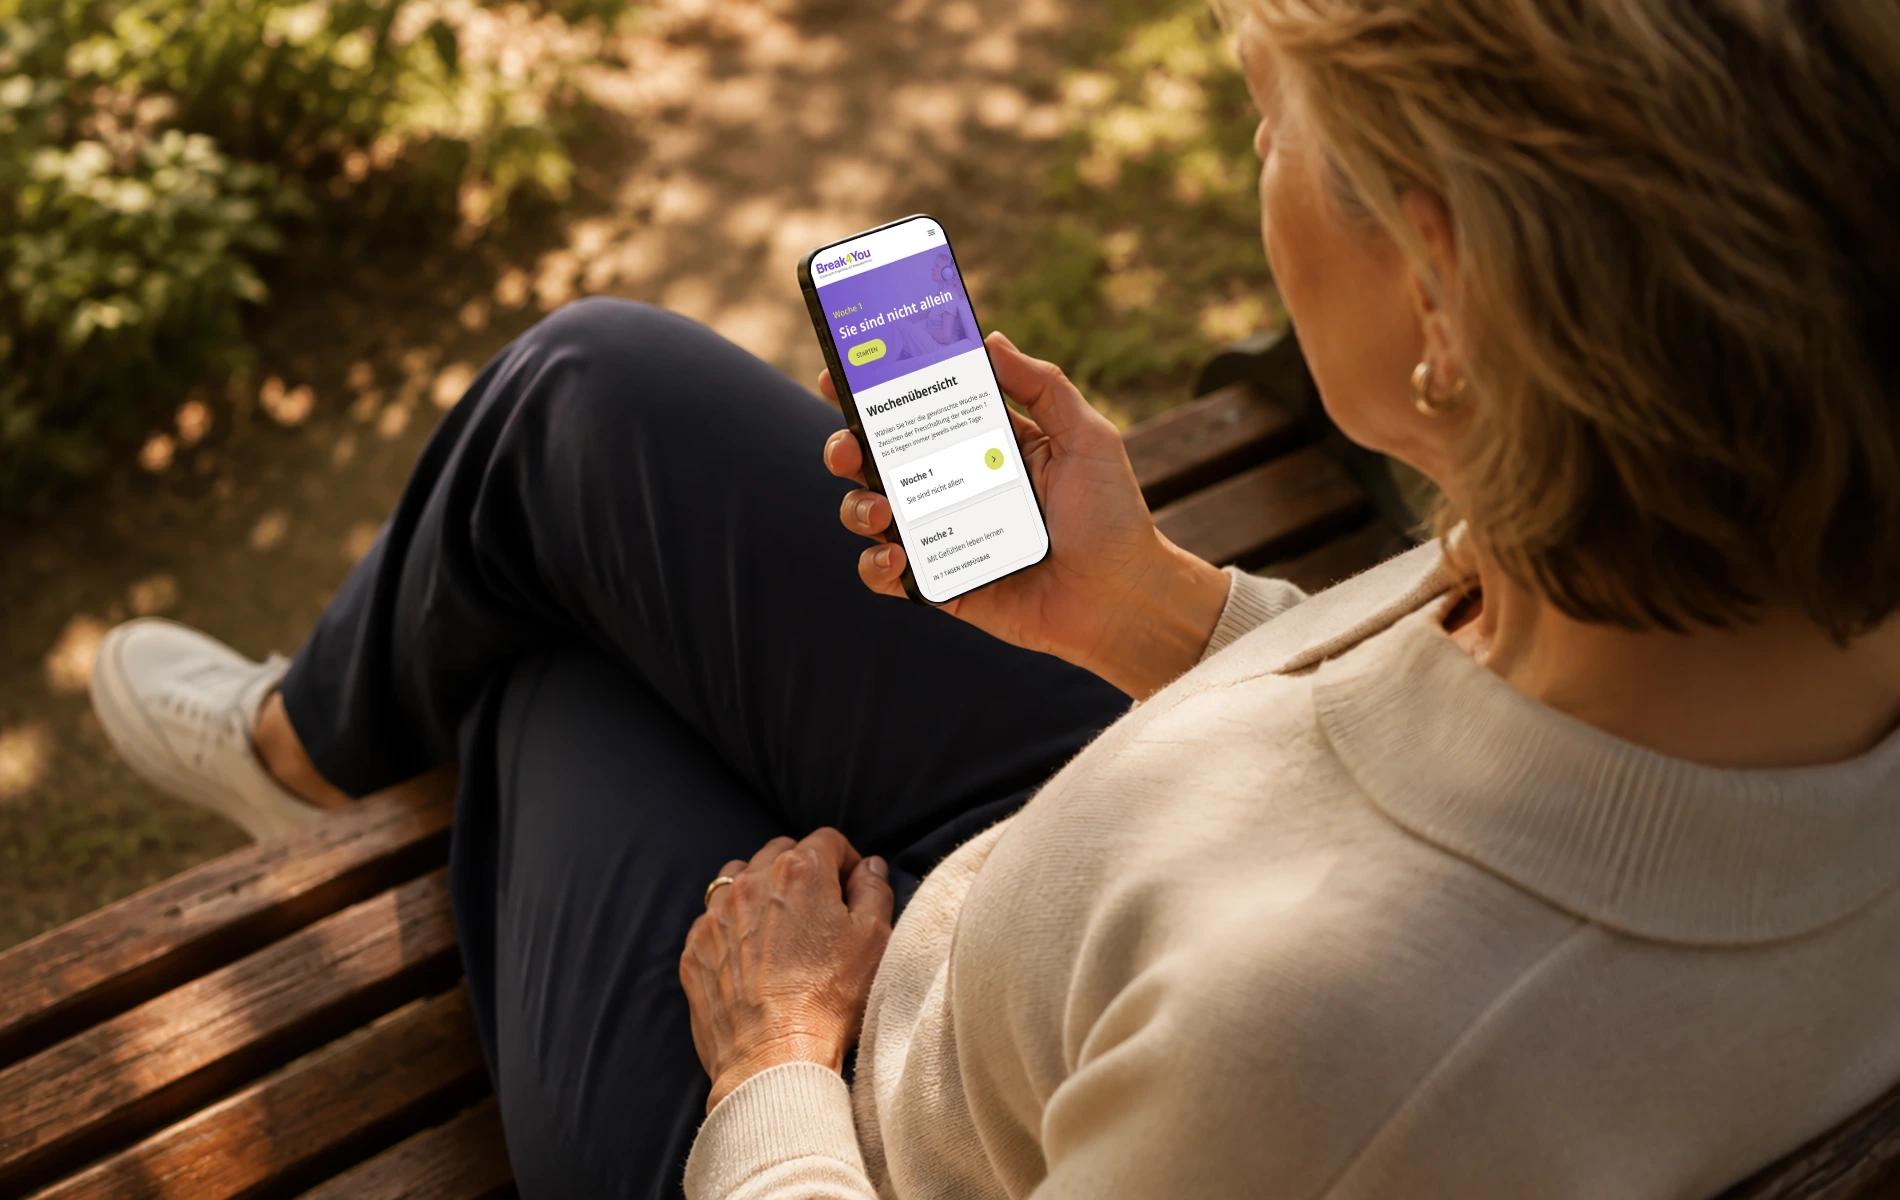
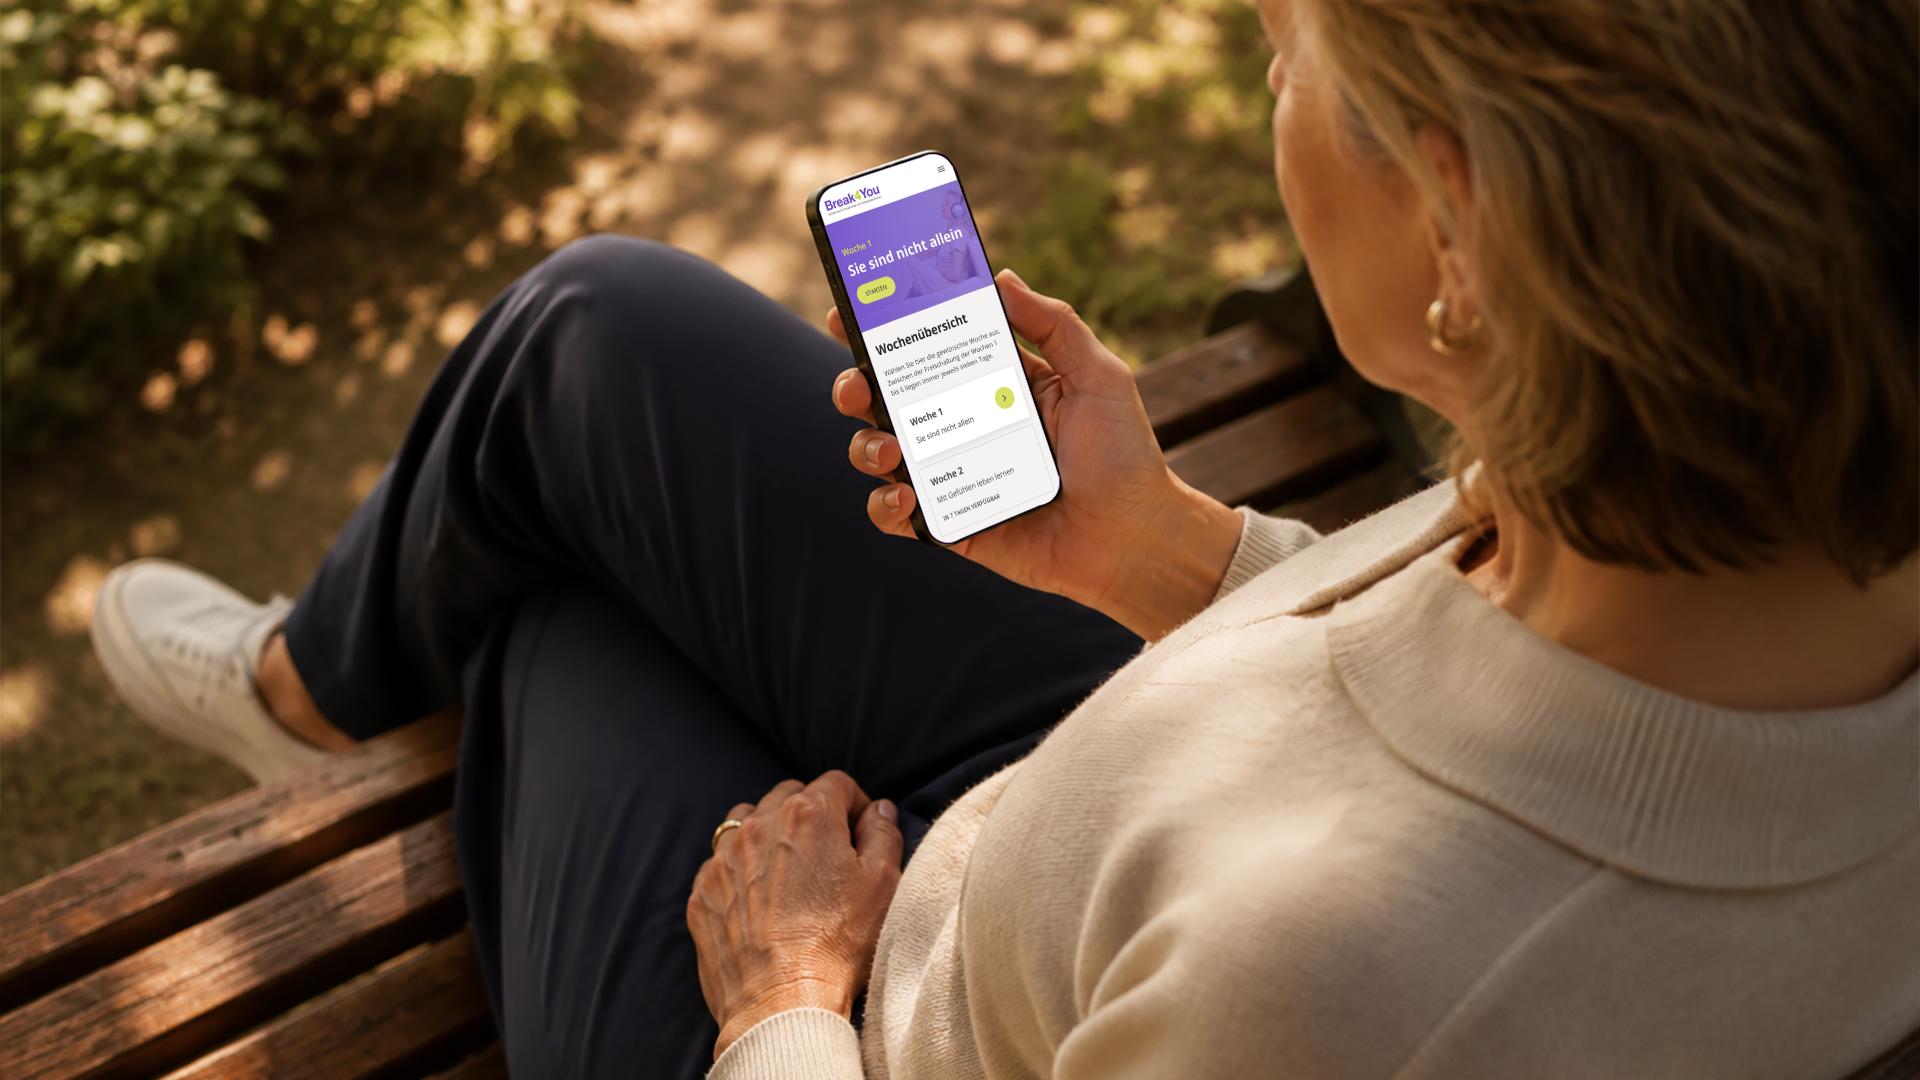
Update Break4You and Lebenswege case studies
Revise case-study markup and copy; add/replace Break4You and Lebenswege
media assets.

diff --git a/case-study-break4you.html b/case-study-break4you.html
@@ -68,95 +68,78 @@
     <div class="cs-media"><img src="assets/b4y/case-break4you-hero.webp" alt="Case Study Hugo Boss Hero"/></div>
 
         <div class="cs-text-row">
-      <span class="cs-text-row__label">About / Me</span>
+      <span class="cs-text-row__label">The challenge</span>
       <div class="cs-text-row__body">
 
         <div class="cs-project-meta">
           <div class="cs-project-meta__row">
             <div class="cs-project-meta__label">Client</div>
-            <div class="cs-project-meta__value">Beiersdorf AG</div>
+            <div class="cs-project-meta__value">Austrian Pancreatic Cancer Support Group & selpers</div>
           </div>
 
           <div class="cs-project-meta__row">
             <div class="cs-project-meta__label">Year</div>
-            <div class="cs-project-meta__value">2023–2025</div>
+            <div class="cs-project-meta__value">2020</div>
           </div>
 
           <div class="cs-project-meta__row">
             <div class="cs-project-meta__label">Role</div>
-            <div class="cs-project-meta__value">Art Direction / Design Lead</div>
+            <div class="cs-project-meta__value">Lead Designer</div>
           </div>
 
           <div class="cs-project-meta__row">
             <div class="cs-project-meta__label">Scope of work</div>
             <div class="cs-project-meta__value">
-              Art Direction / UI Design / Editorial Design / Motion Design
+              Concept Branding UI/UX Print Design Frontend-Development
             </div>
           </div>
         </div>
 
-        <p>Welcome. I'm Martina Schubhart, a digital &amp; editorial designer based in Vienna, Austria with over 15 years of experience. I strive to combine tangible business solutions with stunning design work to create memorable brands and 360 campaigns that get real results.</p>
-        <p>Welcome. I'm Martina Schubhart, a digital &amp; editorial designer based in Vienna, Austria with over 15 years of experience. I strive to combine tangible business solutions with stunning design work to create memorable brands and 360 campaigns that get real results.</p>
-        <p>Welcome. I'm Martina Schubhart, a digital &amp; editorial designer based in Vienna, Austria with over 15 years of experience. I strive to combine tangible business solutions with stunning design work to create memorable brands and 360 campaigns that get real results.</p>
+        <p>Break4You is a free online coach for people caring for a relative with advanced cancer — a group under enormous emotional and physical strain who 
+          rarely take time for themselves. Developed as a collaboration between the Austrian Pancreatic Cancer Support Group and selpers, the platform needed 
+          to provide practical support while feeling approachable, reassuring and easy to use.</p>
+          <p>As Lead Designer, I was responsible for shaping the product from the first concept through to launch, 
+            combining branding, UX/UI design and visual communication into one cohesive experience.</p>
       </div>
     </div>
 
-    <div class="cs-media"><img src="assets/bdf/case-Beiersdorf-screens.jpg" alt="Case Study Hugo Boss PDF Coverdesigns" /></div>
-    <div class="cs-media"><img src="assets/bdf/beiersdorf-case-03.webp" alt="Case Study Hugo Boss PDF Coverdesigns" /></div>
-
-    
-
-    <div class="cs-media" data-media="video">
-      <video poster="assets/hb/case-HugoBoss-hellofuture-poster.webp" muted loop playsinline autoplay>
-        <source src="assets/hb/case-HugoBoss-hellofuture2.webm" type="video/webm">
-        <source src="assets/hb/hb-animation-hellofuture2.mp4" type="video/mp4">
-        <img src="assets/hb/case-HugoBoss-hellofuture-poster.webp" alt="">
-      </video>
-      <button class="video-toggle" id="videoToggle" aria-label="Pause video">
-        <svg class="icon-pause" width="14" height="14" viewBox="0 0 12 12" fill="none">
-          <rect x="2.5" y="2" width="2.4" height="8" rx="0.6" fill="currentColor"/>
-          <rect x="7.1" y="2" width="2.4" height="8" rx="0.6" fill="currentColor"/>
-        </svg>
-        <svg class="icon-play" width="14" height="14" viewBox="0 0 12 12" fill="none">
-          <path d="M3.2 2.3L9.5 6L3.2 9.7V2.3Z" fill="currentColor"/>
-        </svg>
-      </button>
-    </div>
-
-    <div class="cs-media" data-media="video">
-      <video poster="assets/hb/case-HugoBoss-shape-poster.webp" muted loop playsinline autoplay>
-        <source src="assets/hb/case-HugoBoss-shape.webm" type="video/webm">
-        <source src="assets/hb/case-HugoBoss-shape.mp4" type="video/mp4">
-        <img src="assets/hb/case-HugoBoss-shape-poster.webp" alt="">
-      </video>
-      <button class="video-toggle" id="videoToggle" aria-label="Pause video">
-        <svg class="icon-pause" width="14" height="14" viewBox="0 0 12 12" fill="none">
-          <rect x="2.5" y="2" width="2.4" height="8" rx="0.6" fill="currentColor"/>
-          <rect x="7.1" y="2" width="2.4" height="8" rx="0.6" fill="currentColor"/>
-        </svg>
-        <svg class="icon-play" width="14" height="14" viewBox="0 0 12 12" fill="none">
-          <path d="M3.2 2.3L9.5 6L3.2 9.7V2.3Z" fill="currentColor"/>
-        </svg>
-      </button>
-    </div>
-
+    <div class="cs-media"><img src="assets/b4y/case-break4you-screens.webp" alt="Case Study Hugo Boss PDF Coverdesigns" /></div>
 
     <div class="cs-text-row">
-      <span class="cs-text-row__label">About / Me</span>
+      <span class="cs-text-row__label">Concept & Product Design</span>
       <div class="cs-text-row__body">
-        <p>Welcome. I'm Martina Schubhart, a digital &amp; editorial designer based in Vienna, Austria with over 15 years of experience. I strive to combine tangible business solutions with stunning design work to create memorable brands and 360 campaigns that get real results.</p>
-        <p>Welcome. I'm Martina Schubhart, a digital &amp; editorial designer based in Vienna, Austria with over 15 years of experience. I strive to combine tangible business solutions with stunning design work to create memorable brands and 360 campaigns that get real results.</p>
+        <p>Working closely with the selpers team and members of the support group, I helped develop a six-week programme that gradually unlocks new content, 
+          videos and exercises. The structure encourages participants to build small moments of self-care into their daily routine without feeling overwhelming.</p>
+        <p>Together with the WordPress developer, I also defined the technical concept to make these features possible within the project's budget and 
+          technical constraints.</p>
       </div>
     </div>
 
     <div class="cs-media"><img src="assets/hb/case-HugoBoss-shape-highlights-teaser.webp" alt="Case Study Highlights Teaser"/></div>
-    
-    <div class="cs-media-grid">
-      <div class="cs-media"><img src="assets/hb/case-HugoBoss-highlights.png" alt="Case Study Highlights Teaser"/></div>
-      <div class="cs-media"><img src="assets/hb/case-HugoBoss-interactive-graphic.png" alt="Case Study Highlights Teaser"/></div>
+
+    <div class="cs-text-row">
+      <span class="cs-text-row__label">Brand & Illustration</span>
+      <div class="cs-text-row__body">
+        <p>The visual identity brings both partner organisations together. I developed the logo, colour palette and typography based on the existing brands, 
+          making the collaboration visible while giving Break4You its own recognisable identity. To support the educational content, I created a custom 
+          illustration style with warm colours and simple forms, helping make the exercises feel approachable and easy to understand.</p>
+      </div>
     </div>
 
+    <div class="cs-media"><img src="assets/hb/case-HugoBoss-shape-highlights-teaser.webp" alt="Case Study Highlights Teaser"/></div>
 
+    <div class="cs-text-row">
+      <span class="cs-text-row__label">The Experience</span>
+      <div class="cs-text-row__body">
+        <p>The platform was designed around simplicity and reassurance. From a single dashboard, participants can access weekly content, save exercises
+           to a personal toolkit, find consultation hours and quickly navigate to frequently asked questions.</p>
+        <p>Alongside the product itself, I designed the landing page, onboarding experience and supporting communication materials, 
+          including printed information cards distributed through support groups at launch.</p>
+      </div>
+    </div>
+
+    <div class="cs-media"><img src="assets/b4y/case-break4you-advertisment.webp" alt="Case Study Highlights Teaser"/></div>
+    
   </main>
 
   <section class="closing">

diff --git a/case-study-lebenswege.html b/case-study-lebenswege.html
@@ -68,7 +68,7 @@
     <div class="cs-media"><img src="assets/lbw/case-lebenswege-hero.webp" alt="Case Study Hugo Boss Hero"/></div>
 
         <div class="cs-text-row">
-      <span class="cs-text-row__label">About / Me</span>
+      <span class="cs-text-row__label">The Challenge</span>
       <div class="cs-text-row__body">
 
         <div class="cs-project-meta">
@@ -95,61 +95,17 @@
           </div>
         </div>
 
-        <p>Welcome. I'm Martina Schubhart, a digital &amp; editorial designer based in Vienna, Austria with over 15 years of experience. I strive to combine tangible business solutions with stunning design work to create memorable brands and 360 campaigns that get real results.</p>
-        <p>Welcome. I'm Martina Schubhart, a digital &amp; editorial designer based in Vienna, Austria with over 15 years of experience. I strive to combine tangible business solutions with stunning design work to create memorable brands and 360 campaigns that get real results.</p>
-        <p>Welcome. I'm Martina Schubhart, a digital &amp; editorial designer based in Vienna, Austria with over 15 years of experience. I strive to combine tangible business solutions with stunning design work to create memorable brands and 360 campaigns that get real results.</p>
+        <p>Lebenswege is the member magazine of Myelom- und Lymphomhilfe Österreich, providing patients and their families with news from medicine and therapy, 
+          personal stories, events and practical information. Across several issues, the challenge was always the same: however serious the subject matter, the
+          magazine should feel hopeful, approachable and full of life.</p>
+        <p>I shaped each issue's layout and imagery to feel warm and inviting — using colour and a clear structure to make 
+          serious medical content approachable and easy to read. The goal was creating a magazine that people genuinely want to pick up and read.</p>
       </div>
     </div>
 
     <div class="cs-media"><img src="assets/bdf/case-Beiersdorf-screens.jpg" alt="Case Study Hugo Boss PDF Coverdesigns" /></div>
     <div class="cs-media"><img src="assets/bdf/beiersdorf-case-03.webp" alt="Case Study Hugo Boss PDF Coverdesigns" /></div>
 
-    
-
-    <div class="cs-media" data-media="video">
-      <video poster="assets/hb/case-HugoBoss-hellofuture-poster.webp" muted loop playsinline autoplay>
-        <source src="assets/hb/case-HugoBoss-hellofuture2.webm" type="video/webm">
-        <source src="assets/hb/hb-animation-hellofuture2.mp4" type="video/mp4">
-        <img src="assets/hb/case-HugoBoss-hellofuture-poster.webp" alt="">
-      </video>
-      <button class="video-toggle" id="videoToggle" aria-label="Pause video">
-        <svg class="icon-pause" width="14" height="14" viewBox="0 0 12 12" fill="none">
-          <rect x="2.5" y="2" width="2.4" height="8" rx="0.6" fill="currentColor"/>
-          <rect x="7.1" y="2" width="2.4" height="8" rx="0.6" fill="currentColor"/>
-        </svg>
-        <svg class="icon-play" width="14" height="14" viewBox="0 0 12 12" fill="none">
-          <path d="M3.2 2.3L9.5 6L3.2 9.7V2.3Z" fill="currentColor"/>
-        </svg>
-      </button>
-    </div>
-
-    <div class="cs-media" data-media="video">
-      <video poster="assets/hb/case-HugoBoss-shape-poster.webp" muted loop playsinline autoplay>
-        <source src="assets/hb/case-HugoBoss-shape.webm" type="video/webm">
-        <source src="assets/hb/case-HugoBoss-shape.mp4" type="video/mp4">
-        <img src="assets/hb/case-HugoBoss-shape-poster.webp" alt="">
-      </video>
-      <button class="video-toggle" id="videoToggle" aria-label="Pause video">
-        <svg class="icon-pause" width="14" height="14" viewBox="0 0 12 12" fill="none">
-          <rect x="2.5" y="2" width="2.4" height="8" rx="0.6" fill="currentColor"/>
-          <rect x="7.1" y="2" width="2.4" height="8" rx="0.6" fill="currentColor"/>
-        </svg>
-        <svg class="icon-play" width="14" height="14" viewBox="0 0 12 12" fill="none">
-          <path d="M3.2 2.3L9.5 6L3.2 9.7V2.3Z" fill="currentColor"/>
-        </svg>
-      </button>
-    </div>
-
-
-    <div class="cs-text-row">
-      <span class="cs-text-row__label">About / Me</span>
-      <div class="cs-text-row__body">
-        <p>Welcome. I'm Martina Schubhart, a digital &amp; editorial designer based in Vienna, Austria with over 15 years of experience. I strive to combine tangible business solutions with stunning design work to create memorable brands and 360 campaigns that get real results.</p>
-        <p>Welcome. I'm Martina Schubhart, a digital &amp; editorial designer based in Vienna, Austria with over 15 years of experience. I strive to combine tangible business solutions with stunning design work to create memorable brands and 360 campaigns that get real results.</p>
-      </div>
-    </div>
-
-    <div class="cs-media"><img src="assets/hb/case-HugoBoss-shape-highlights-teaser.webp" alt="Case Study Highlights Teaser"/></div>
     
     <div class="cs-media-grid">
       <div class="cs-media"><img src="assets/hb/case-HugoBoss-highlights.png" alt="Case Study Highlights Teaser"/></div>